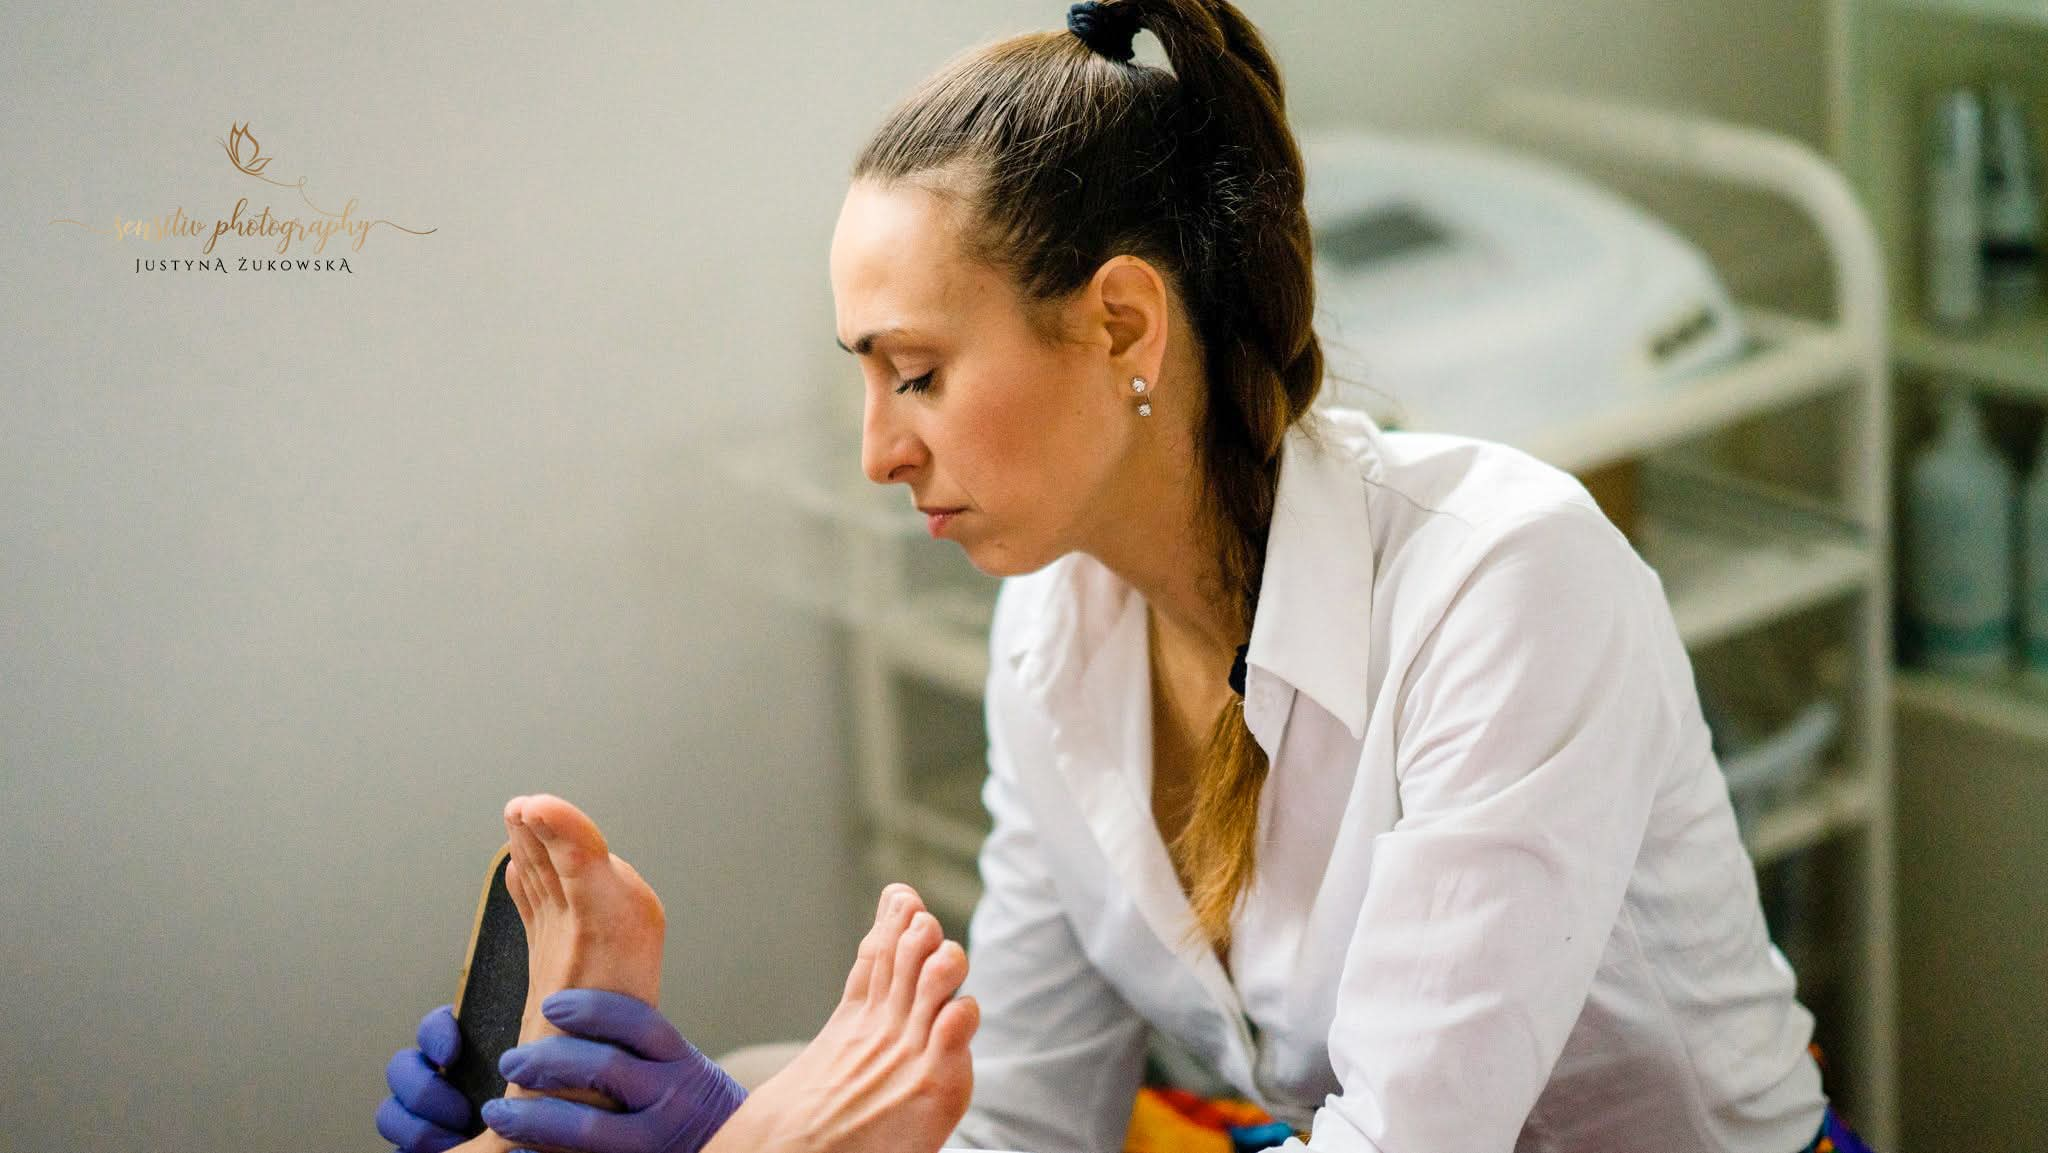
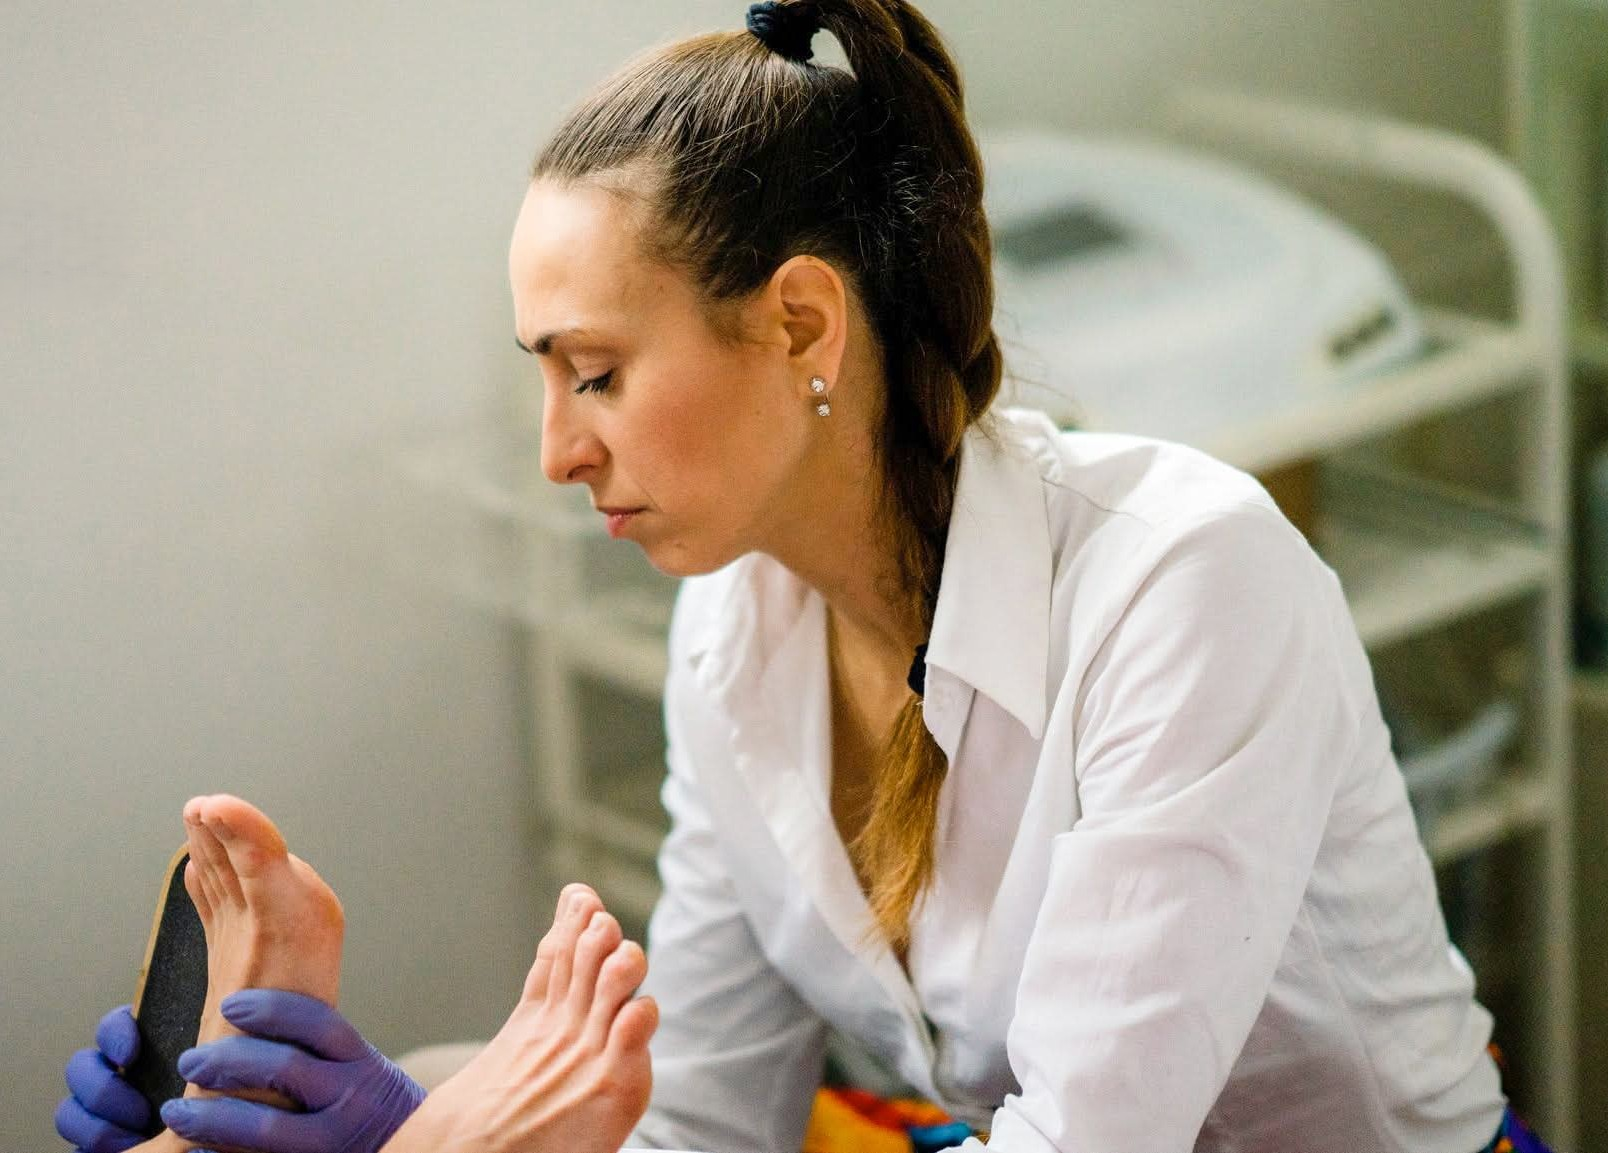
add privacy policy page and footer link

diff --git a/polityka-prywatnosci.html b/polityka-prywatnosci.html
@@ -1,0 +1,163 @@
+<!DOCTYPE html>
+<html lang="pl">
+<head>
+<meta charset="UTF-8">
+<meta name="viewport" content="width=device-width, initial-scale=1.0">
+<title>Polityka Prywatności · Gabinet Kosmetyki i Naturopatii Jolanta Orłowska</title>
+<meta name="robots" content="noindex, follow">
+<link rel="preconnect" href="https://fonts.googleapis.com">
+<link rel="preconnect" href="https://fonts.gstatic.com" crossorigin>
+<link href="https://fonts.googleapis.com/css2?family=Cormorant+Garamond:ital,wght@0,400;0,500;1,400&family=Raleway:wght@400;500;600&display=swap" rel="stylesheet">
+<style>
+*, *::before, *::after { box-sizing: border-box; margin: 0; padding: 0; }
+:root {
+  --bg: #FAF7F1;
+  --white: #ffffff;
+  --text: #2A2620;
+  --muted: #6B635A;
+  --accent: #9A7B4F;
+  --border: rgba(154,123,79,0.22);
+  --dark: #1C1A17;
+  --gold: #C9A96E;
+  --nav-h: 72px;
+  --ff-h: 'Cormorant Garamond', serif;
+  --ff-b: 'Raleway', sans-serif;
+}
+html { scroll-behavior: smooth; }
+body {
+  font-family: var(--ff-b);
+  background: var(--bg);
+  color: var(--text);
+  font-size: 15px;
+  font-weight: 400;
+  line-height: 1.6;
+}
+a { text-decoration: none; color: inherit; }
+
+.nav {
+  position: sticky;
+  top: 0;
+  z-index: 100;
+  background: rgba(250,247,241,0.96);
+  backdrop-filter: blur(12px);
+  border-bottom: 1px solid var(--border);
+  height: var(--nav-h);
+}
+.nav-inner {
+  max-width: 1200px;
+  margin: 0 auto;
+  padding: 0 48px;
+  height: 100%;
+  display: flex;
+  align-items: center;
+}
+.nav-logo {
+  font-family: var(--ff-h);
+  font-size: 23px;
+  font-style: italic;
+  font-weight: 500;
+  color: var(--text);
+}
+
+.content {
+  max-width: 720px;
+  margin: 0 auto;
+  padding: 80px 48px 100px;
+}
+.page-label {
+  display: block;
+  font-family: var(--ff-b);
+  font-size: 12px;
+  font-weight: 600;
+  letter-spacing: 0.18em;
+  text-transform: uppercase;
+  color: var(--accent);
+  margin-bottom: 14px;
+}
+.page-h1 {
+  font-family: var(--ff-h);
+  font-size: clamp(32px, 4vw, 48px);
+  font-weight: 400;
+  color: var(--text);
+  margin-bottom: 48px;
+  line-height: 1.15;
+}
+h2 {
+  font-family: var(--ff-h);
+  font-size: 24px;
+  font-weight: 400;
+  color: var(--text);
+  margin: 40px 0 12px;
+}
+p {
+  font-size: 15px;
+  color: var(--muted);
+  line-height: 1.8;
+  margin-bottom: 16px;
+}
+p strong { color: var(--text); font-weight: 600; }
+
+.footer { background: var(--dark); padding: 48px 0; text-align: center; }
+.footer-name {
+  font-family: var(--ff-h);
+  font-size: 22px;
+  font-style: italic;
+  color: #F4EFE6;
+  margin-bottom: 10px;
+}
+.footer-back {
+  font-family: var(--ff-b);
+  font-size: 12px;
+  font-weight: 500;
+  letter-spacing: 0.1em;
+  text-transform: uppercase;
+  color: rgba(244,239,230,0.65);
+  border-bottom: 1px solid transparent;
+  transition: color 0.2s, border-color 0.2s;
+}
+.footer-back:hover { color: var(--gold); border-bottom-color: var(--gold); }
+
+@media (max-width: 768px) {
+  .nav-inner { padding: 0 22px; }
+  .content { padding: 48px 22px 72px; }
+}
+</style>
+</head>
+<body>
+
+<nav class="nav">
+  <div class="nav-inner">
+    <a href="/" class="nav-logo">Jolanta Orłowska</a>
+  </div>
+</nav>
+
+<main class="content">
+  <span class="page-label">Informacje prawne</span>
+  <h1 class="page-h1">Polityka Prywatności</h1>
+
+  <h2>Administrator danych</h2>
+  <p>Administratorem danych osobowych jest <strong>Jolanta Orłowska</strong>, prowadząca Gabinet Kosmetyki i Naturopatii przy ul. Modrzewiowej 15 w Suwałkach. Kontakt: <strong>604 540 229</strong>.</p>
+
+  <h2>Jakie dane zbieramy</h2>
+  <p>Strona internetowa <strong>nie zbiera żadnych danych osobowych</strong> poprzez formularze ani pliki cookie. Nie prowadzi rejestracji użytkowników.</p>
+  <p>Strona korzysta z <strong>Cloudflare Web Analytics</strong> - narzędzia do anonimowego pomiaru ruchu. Nie używa plików cookie, nie zbiera adresów IP ani innych danych osobowych. Cloudflare przetwarza wyłącznie zagregowane, anonimowe statystyki (liczba odwiedzin, czas ładowania strony).</p>
+
+  <h2>Kontakt telefoniczny</h2>
+  <p>Korzystając z numeru telefonu podanego na stronie i inicjując połączenie, Twój numer telefonu jest widoczny dla właścicielki gabinetu. Dane te nie są przechowywane ani przetwarzane w żaden inny sposób.</p>
+
+  <h2>Prawa użytkownika</h2>
+  <p>Masz prawo do dostępu do swoich danych, ich sprostowania, usunięcia oraz wniesienia sprzeciwu wobec ich przetwarzania. W sprawach dotyczących danych osobowych możesz kontaktować się telefonicznie pod numerem <strong>604 540 229</strong>.</p>
+
+  <h2>Zmiany polityki</h2>
+  <p>Wszelkie zmiany w polityce prywatności będą publikowane na tej stronie.</p>
+</main>
+
+<footer class="footer">
+  <div>
+    <p class="footer-name">Jolanta Orłowska</p>
+    <a href="/" class="footer-back">Powrót do strony</a>
+  </div>
+</footer>
+
+</body>
+</html>

diff --git a/index.html b/index.html
@@ -1094,6 +1094,7 @@ img { display: block; max-width: 100%; }
     <p class="footer-sub">Gabinet Kosmetyki i Naturopatii · Suwałki</p>
     <div class="footer-socials">
       <a href="https://www.facebook.com/gabinetkosmetykiinaturopatii" target="_blank" rel="noopener" class="footer-soc">Facebook</a>
+      <a href="/polityka-prywatnosci.html" class="footer-soc">Polityka prywatności</a>
     </div>
   </div>
 </footer>
